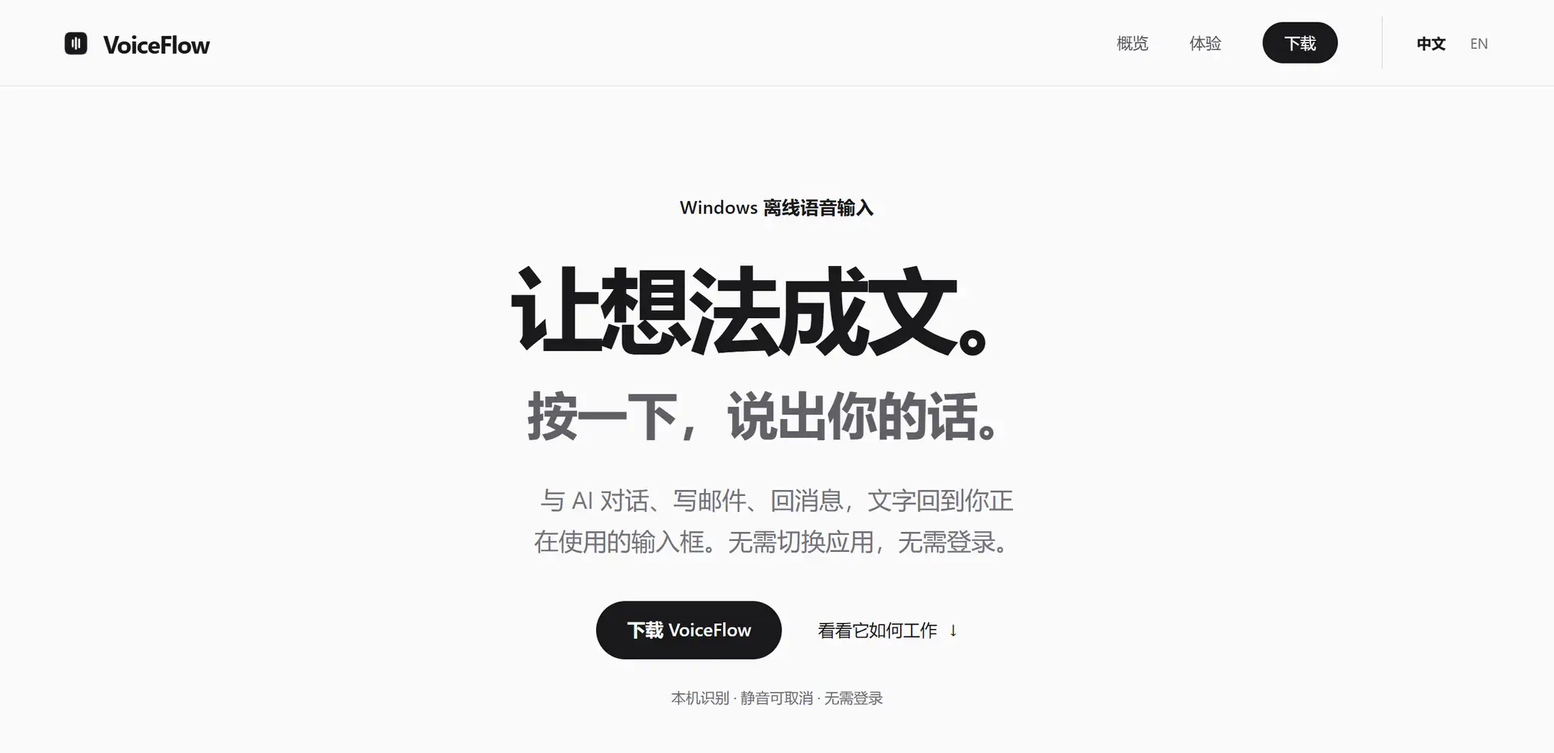
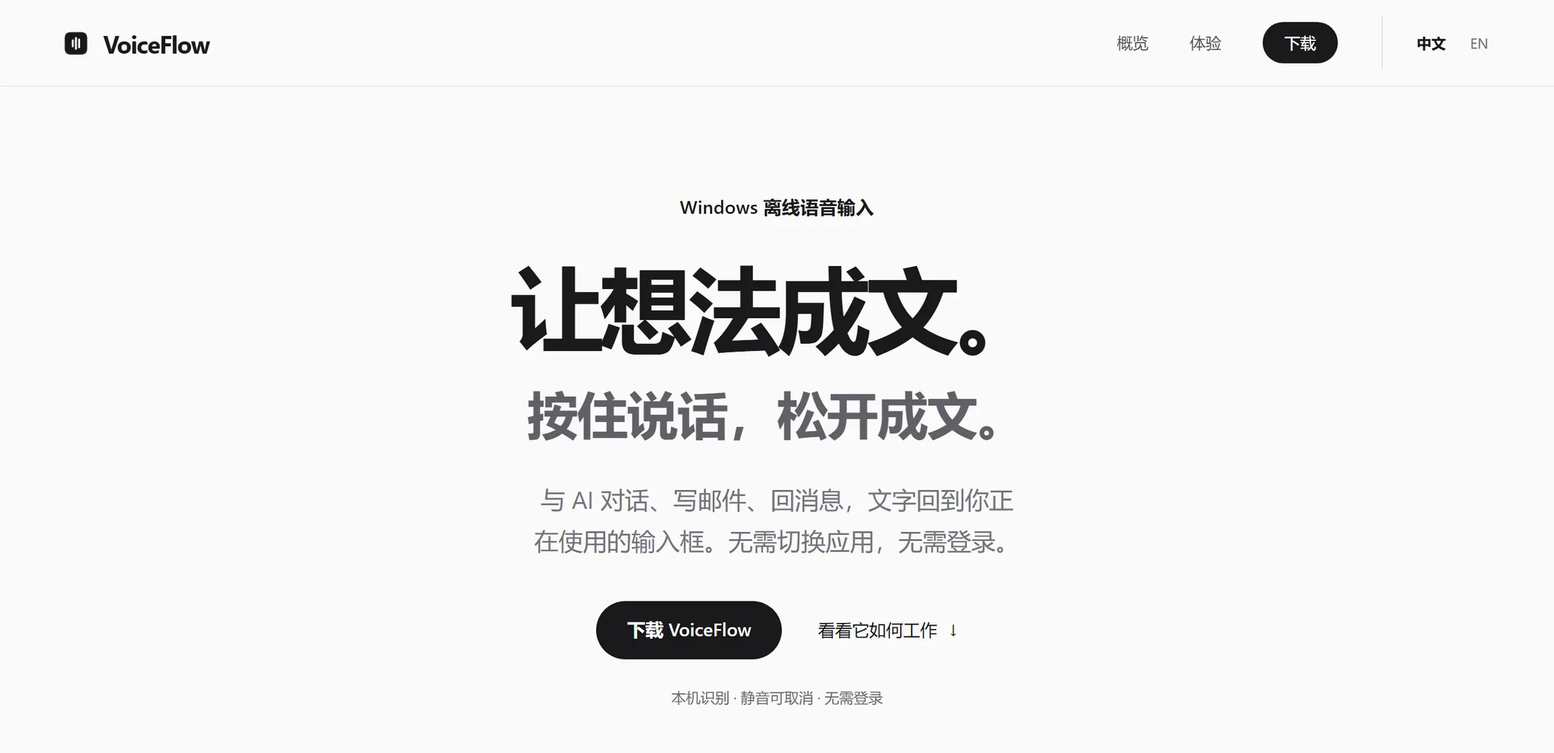
VoiceFlow v0.3.12：作品页和首页演示改为按住说话，官网图重截，926 项测试

Changed region(s): [[0.375, 0.5228, 0.625, 0.5843]]

diff --git a/work/voiceflow/index.html b/work/voiceflow/index.html
@@ -3,7 +3,7 @@
 <head>
 <meta charset="utf-8">
 <meta name="viewport" content="width=device-width, initial-scale=1, viewport-fit=cover">
-<title>VoiceFlow：按一下，说话，文字就出现在光标处 · 秦徐俊</title>
+<title>VoiceFlow：按住说话，松开，文字就出现在光标处 · 秦徐俊</title>
 <meta name="description" content="Windows 上的语音输入，全程在本机，不联网，不用登录。">
 <meta name="color-scheme" content="light dark">
 <meta name="theme-color" content="#ffffff">
@@ -18,7 +18,7 @@
 <link rel="alternate" hreflang="en" href="https://qinxujunai.github.io/en/work/voiceflow/">
 <link rel="alternate" hreflang="x-default" href="https://qinxujunai.github.io/work/voiceflow/">
 <meta property="og:type" content="website">
-<meta property="og:title" content="VoiceFlow：按一下，说话，文字就出现在光标处 · 秦徐俊">
+<meta property="og:title" content="VoiceFlow：按住说话，松开，文字就出现在光标处 · 秦徐俊">
 <meta property="og:description" content="Windows 上的语音输入，全程在本机，不联网，不用登录。">
 <meta property="og:url" content="https://qinxujunai.github.io/work/voiceflow/">
 <meta property="og:image" content="https://qinxujunai.github.io/og.png">
@@ -27,7 +27,7 @@
 <meta itemprop="image" content="https://qinxujunai.github.io/share.png">
 <meta name="twitter:card" content="summary_large_image">
 <meta name="author" content="秦徐俊">
-<script src="/assets/site.js?v=1ef3cf9a71" defer></script>
+<script src="/assets/site.js?v=f02f074eb1" defer></script>
 </head>
 <body class="case-page">
 <a class="skip" href="#main">跳到正文</a>
@@ -53,12 +53,12 @@
 <article class="case" aria-labelledby="case-title">
 <header class="tile plain case-head" id="top">
 <p class="eyebrow">VoiceFlow · 怎么做的</p>
-<h1 id="case-title"><span class="clause">按<wbr>一下</span> <span class="clause">说话</span> <span class="clause">文字<wbr>就<wbr>出现<wbr>在<wbr>光标处</span></h1>
+<h1 id="case-title"><span class="clause">按住<wbr>说话</span> <span class="clause">松开</span> <span class="clause">文字<wbr>就<wbr>出现<wbr>在<wbr>光标处</span></h1>
 <p class="sub"><span class="clause">Windows 上<wbr>的<wbr>语音<wbr>输入</span> <span class="clause">全程<wbr>在<wbr>本<wbr>机</span> <span class="clause">不<wbr>联<wbr>网</span> <span class="clause">不用<wbr>登录</span></p>
 <p class="cta"><a class="more-link" href="https://github.com/qinxujunai/VoiceFlow/releases/latest" rel="noopener"><span class="lt">下载 Windows 版</span><span class="chev out" aria-hidden="true">↗</span><span class="visually-hidden"> VoiceFlow</span></a></p>
 <div class="case-frame"><div class="frame">
 
-<span class="frame-view"><picture><source media="(max-width: 733px)" srcset="/assets/media/site-voiceflow-card-1080.webp" width="1080" height="1440"><img class="frame-img" src="/assets/media/site-voiceflow-1040.webp" srcset="/assets/media/site-voiceflow-1040.webp 1040w, /assets/media/site-voiceflow-2080.webp 2080w" sizes="1040px" width="1040" height="504" alt="VoiceFlow 的网站：让想法成文。按一下，说出你的话。" loading="lazy" decoding="async"></picture></span>
+<span class="frame-view"><picture><source media="(max-width: 733px)" srcset="/assets/media/site-voiceflow-card-1080.webp" width="1080" height="1440"><img class="frame-img" src="/assets/media/site-voiceflow-1040.webp" srcset="/assets/media/site-voiceflow-1040.webp 1040w, /assets/media/site-voiceflow-2080.webp 2080w" sizes="1040px" width="1040" height="504" alt="VoiceFlow 的网站：让想法成文。按住说话，松开成文。" loading="lazy" decoding="async"></picture></span>
 </div></div>
 </header>
 <section class="tile dark results" aria-labelledby="results-title">
@@ -66,7 +66,7 @@
 <dl class="facts">
 <div><dt>GitHub Star</dt><dd data-count="124"><!--live-->124<!--/live--></dd></div>
 <div><dt>0–10 秒<wbr>录音<wbr>至<wbr>发出<wbr>粘贴<wbr>指令，<wbr>v0.3.1 测试<wbr>第 95 百分<wbr>位</dt><dd>427 ms</dd></div>
-<div><dt>v0.3.10 自动<wbr>化<wbr>测试<wbr>（2026-10-22）</dt><dd>829 项</dd></div>
+<div><dt>v0.3.12 自动<wbr>化<wbr>测试<wbr>（2026-11-03）</dt><dd>926 项</dd></div>
 <div><dt>截至 2026-10-22 的<wbr>正式<wbr>发布</dt><dd>16 次</dd></div>
 </dl>
 <p class="footnote"><!--live-->GitHub 数据<wbr>每 6 小时<wbr>自动<wbr>更新，<wbr>最近<wbr>一次 <span class="nw">2026-11-06</span><!--/live--></p>
@@ -87,7 +87,7 @@
 <p>我<wbr>用<wbr>语音<wbr>跟 AI 聊天、<wbr>做<wbr>开发，<wbr>一<wbr>说<wbr>就是<wbr>五<wbr>六<wbr>分钟，<wbr>甚至<wbr>十<wbr>几<wbr>分钟。</p>
 <p>试过<wbr>的<wbr>工具<wbr>各有<wbr>各<wbr>的<wbr>好：<wbr>国外<wbr>有能<wbr>用 AI 校<wbr>对<wbr>的，<wbr>要<wbr>付<wbr>费；<wbr>国内<wbr>的<wbr>输入<wbr>法<wbr>识别<wbr>得<wbr>很好。<wbr>但<wbr>我<wbr>碰到<wbr>三<wbr>个<wbr>问题。<wbr>第一，<wbr>说<wbr>完<wbr>一<wbr>结束，<wbr>网<wbr>一<wbr>卡，<wbr>整段<wbr>话<wbr>就<wbr>没了。<wbr>第二，<wbr>最后<wbr>几<wbr>句<wbr>常常<wbr>识别<wbr>不出来，<wbr>可<wbr>我要<wbr>的是<wbr>完整：<wbr>说<wbr>到<wbr>最后<wbr>一个<wbr>字，<wbr>就得<wbr>出来<wbr>最后<wbr>一个<wbr>字。<wbr>第三，<wbr>光<wbr>标<wbr>不在<wbr>输入<wbr>框<wbr>里，<wbr>说<wbr>完<wbr>的话<wbr>直接<wbr>消失。</p>
 <p>所以<wbr>我<wbr>想要<wbr>一个<wbr>全<wbr>在<wbr>本<wbr>机<wbr>跑<wbr>的<wbr>工具：<wbr>终稿<wbr>识别<wbr>处理<wbr>完整录音，<wbr>并<wbr>尝试<wbr>将<wbr>结果<wbr>复制<wbr>到<wbr>剪贴板、<wbr>保存<wbr>到<wbr>本地<wbr>历史。<wbr>识别<wbr>或<wbr>保存<wbr>可能<wbr>失败，<wbr>部分<wbr>应用<wbr>需要<wbr>手<wbr>动<wbr>粘贴。</p>
-<p>正在<wbr>验证<wbr>的<wbr>开发<wbr>版<wbr>支持<wbr>按住 F2 或<wbr>右 Ctrl 说话、<wbr>松开<wbr>结束，<wbr>也<wbr>保留<wbr>轻<wbr>按<wbr>切换。<wbr>正式<wbr>下载<wbr>版<wbr>目前<wbr>仍<wbr>使用<wbr>轻<wbr>按<wbr>切换。</p>
+<p>从 v0.3.12 起，<wbr>按住 F2 或<wbr>右 Ctrl 说话、<wbr>松开<wbr>结束，<wbr>也<wbr>保留<wbr>轻<wbr>按<wbr>切换。</p>
 </section>
 <section class="case-sec" id="s2" aria-labelledby="s2-title">
 <h2 id="s2-title"><span class="clause">快<wbr>和<wbr>准，</span><span class="clause">交给<wbr>两<wbr>个<wbr>模型</span></h2>
@@ -127,12 +127,12 @@
 <h2 id="s8-title"><span class="clause">验证</span></h2>
 <p>v0.3.1 在<wbr>发布<wbr>机上<wbr>实<wbr>测<wbr>（Windows 11 · Ryzen 7 5800H）。<wbr>每一<wbr>档 20 个<wbr>样本，<wbr>数字<wbr>是 <span class="nw">95%</span> 的<wbr>情况<wbr>都能<wbr>做到<wbr>的<wbr>值：</p>
 <ul class="metrics"><li><span class="m-v">6 ms</span><span class="m-l">按下 F2 到<wbr>第一<wbr>帧<wbr>反馈</span><span class="m-g">门槛 ≤ 50 ms</span></li><li><span class="m-v">427 ms</span><span class="m-l">10 秒<wbr>内的<wbr>录音，<wbr>停止<wbr>到<wbr>发出<wbr>粘贴<wbr>指令</span><span class="m-g">门槛 ≤ 500 ms</span></li><li><span class="m-v">541 ms</span><span class="m-l">两分钟<wbr>录音，<wbr>停止<wbr>到<wbr>发出<wbr>粘贴<wbr>指令</span><span class="m-g">门槛 ≤ 2.5 s</span></li><li><span class="m-v">1,024 MB</span><span class="m-l">安装<wbr>后<wbr>私有<wbr>内存<wbr>（v0.3.1）</span><span class="m-g">早期 1,324.6 MB</span></li></ul>
-<ul class="bullets"><li>v0.3.10 于 2026 年 10 月 22 日<wbr>通过 829 项<wbr>自动<wbr>化<wbr>测试；<wbr>v0.3.3 时<wbr>是 396 项。</li><li>500 次<wbr>录音<wbr>生命<wbr>周期，<wbr>10,000 组<wbr>随机<wbr>的<wbr>开始、<wbr>停止、<wbr>取消、<wbr>退出<wbr>序列，<wbr>50,000 个<wbr>异常<wbr>文本<wbr>模糊<wbr>用例。</li><li>从 v0.3.2 起，<wbr>每<wbr>个<wbr>版本<wbr>都<wbr>附<wbr>一份<wbr>发布<wbr>与<wbr>验证<wbr>记录。</li><li>用户<wbr>提过<wbr>的 12 条<wbr>反馈，<wbr>每<wbr>条<wbr>都<wbr>写下<wbr>结论<wbr>和<wbr>理由：<wbr>采纳、<wbr>按<wbr>门槛<wbr>暂<wbr>缓，<wbr>或者<wbr>拒绝。</li></ul>
+<ul class="bullets"><li>v0.3.12 于 2026 年 11 月 3 日<wbr>通过 926 项<wbr>自动<wbr>化<wbr>测试；<wbr>v0.3.3 时<wbr>是 396 项。</li><li>500 次<wbr>录音<wbr>生命<wbr>周期，<wbr>10,000 组<wbr>随机<wbr>的<wbr>开始、<wbr>停止、<wbr>取消、<wbr>退出<wbr>序列，<wbr>50,000 个<wbr>异常<wbr>文本<wbr>模糊<wbr>用例。</li><li>从 v0.3.2 起，<wbr>每<wbr>个<wbr>版本<wbr>都<wbr>附<wbr>一份<wbr>发布<wbr>与<wbr>验证<wbr>记录。</li><li>用户<wbr>提过<wbr>的 12 条<wbr>反馈，<wbr>每<wbr>条<wbr>都<wbr>写下<wbr>结论<wbr>和<wbr>理由：<wbr>采纳、<wbr>按<wbr>门槛<wbr>暂<wbr>缓，<wbr>或者<wbr>拒绝。</li></ul>
 <p>这些<wbr>是<wbr>延迟<wbr>和<wbr>机制<wbr>的<wbr>证据，<wbr>不是<wbr>准确<wbr>率。<wbr>项目<wbr>的<wbr>规矩：<wbr>没有<wbr>足够<wbr>的<wbr>授权<wbr>真实<wbr>语<wbr>料，<wbr>就不<wbr>对外<wbr>宣称<wbr>准确<wbr>率。</p>
 </section>
 <section class="case-sec" id="s9" aria-labelledby="s9-title">
 <h2 id="s9-title"><span class="clause">历程</span></h2>
-<ol class="timeline"><li><span class="when">2026.05.23</span><span>第一次<wbr>提交</span></li><li><span class="when">2026.07.04</span><span>v0.1.0 发布</span></li><li><span class="when">2026.07.28</span><span>v0.2.0：<wbr>逐条<wbr>回应 12 条<wbr>用户<wbr>反馈</span></li><li><span class="when">2026.08.10</span><span>v0.3.0：<wbr>可<wbr>恢复<wbr>的<wbr>会话，<wbr>交付<wbr>前<wbr>先<wbr>核对<wbr>剪贴板</span></li><li><span class="when">2026.08.25</span><span>v0.3.2：<wbr>三<wbr>个<wbr>受监督<wbr>的<wbr>子进程，<wbr>每<wbr>版<wbr>附<wbr>发布<wbr>证据</span></li><li><span class="when">2026.10.11</span><span>v0.3.8：<wbr>原生<wbr>胶囊</span></li><li><span class="when">2026.10.21</span><span>v0.3.9：<wbr>设置<wbr>只留<wbr>一个<wbr>保存<wbr>入口，<wbr>词典<wbr>可以<wbr>搜索、<wbr>批量<wbr>删除、<wbr>撤销；<wbr>822 项<wbr>测试</span></li><li><span class="when">2026.10.22</span><span>v0.3.10：<wbr>设置<wbr>界面<wbr>按<wbr>系统<wbr>设置<wbr>的<wbr>样子<wbr>重做；<wbr>识别<wbr>中的<wbr>字<wbr>逐<wbr>个<wbr>淡<wbr>入，<wbr>终稿<wbr>原地<wbr>替换<wbr>草稿；<wbr>829 项<wbr>测试</span></li><li><span class="when">2026.10.28</span><span>v0.3.11：<wbr>说话<wbr>停顿<wbr>时<wbr>先<wbr>在<wbr>后台<wbr>识别，<wbr>停下<wbr>后<wbr>出<wbr>字<wbr>更<wbr>快；<wbr>长<wbr>句<wbr>接缝<wbr>不再<wbr>重复<wbr>字；<wbr>胶囊<wbr>展开<wbr>更<wbr>平滑；<wbr>862 项<wbr>测试</span></li><li><span class="when">2026.11.03</span><span>开发<wbr>版：<wbr>按住 F2 或<wbr>右 Ctrl 说话，<wbr>松开<wbr>结束；<wbr>轻<wbr>按<wbr>仍<wbr>可<wbr>切换。<wbr>长<wbr>句<wbr>标点<wbr>和<wbr>术语<wbr>还原<wbr>继续<wbr>打磨，<wbr>尚未<wbr>包含<wbr>在<wbr>正式<wbr>下载<wbr>版<wbr>中</span></li></ol>
+<ol class="timeline"><li><span class="when">2026.05.23</span><span>第一次<wbr>提交</span></li><li><span class="when">2026.07.04</span><span>v0.1.0 发布</span></li><li><span class="when">2026.07.28</span><span>v0.2.0：<wbr>逐条<wbr>回应 12 条<wbr>用户<wbr>反馈</span></li><li><span class="when">2026.08.10</span><span>v0.3.0：<wbr>可<wbr>恢复<wbr>的<wbr>会话，<wbr>交付<wbr>前<wbr>先<wbr>核对<wbr>剪贴板</span></li><li><span class="when">2026.08.25</span><span>v0.3.2：<wbr>三<wbr>个<wbr>受监督<wbr>的<wbr>子进程，<wbr>每<wbr>版<wbr>附<wbr>发布<wbr>证据</span></li><li><span class="when">2026.10.11</span><span>v0.3.8：<wbr>原生<wbr>胶囊</span></li><li><span class="when">2026.10.21</span><span>v0.3.9：<wbr>设置<wbr>只留<wbr>一个<wbr>保存<wbr>入口，<wbr>词典<wbr>可以<wbr>搜索、<wbr>批量<wbr>删除、<wbr>撤销；<wbr>822 项<wbr>测试</span></li><li><span class="when">2026.10.22</span><span>v0.3.10：<wbr>设置<wbr>界面<wbr>按<wbr>系统<wbr>设置<wbr>的<wbr>样子<wbr>重做；<wbr>识别<wbr>中的<wbr>字<wbr>逐<wbr>个<wbr>淡<wbr>入，<wbr>终稿<wbr>原地<wbr>替换<wbr>草稿；<wbr>829 项<wbr>测试</span></li><li><span class="when">2026.10.28</span><span>v0.3.11：<wbr>说话<wbr>停顿<wbr>时<wbr>先<wbr>在<wbr>后台<wbr>识别，<wbr>停下<wbr>后<wbr>出<wbr>字<wbr>更<wbr>快；<wbr>长<wbr>句<wbr>接缝<wbr>不再<wbr>重复<wbr>字；<wbr>胶囊<wbr>展开<wbr>更<wbr>平滑；<wbr>862 项<wbr>测试</span></li><li><span class="when">2026.11.03</span><span>v0.3.12：<wbr>按住 F2 或<wbr>右 Ctrl 说话，<wbr>松开<wbr>结束，<wbr>轻<wbr>按<wbr>仍<wbr>可<wbr>切换；<wbr>粘贴<wbr>发出<wbr>后<wbr>胶囊<wbr>直接<wbr>收起；<wbr>长<wbr>句<wbr>分段<wbr>处<wbr>不再<wbr>多<wbr>出<wbr>句号，<wbr>词<wbr>库<wbr>术语<wbr>能<wbr>还原<wbr>拆开<wbr>的<wbr>写法；<wbr>926 项<wbr>测试</span></li></ol>
 </section>
 </details>
 <section class="case-sec" id="s10" aria-labelledby="s10-title">

diff --git a/en/work/voiceflow/index.html b/en/work/voiceflow/index.html
@@ -3,7 +3,7 @@
 <head>
 <meta charset="utf-8">
 <meta name="viewport" content="width=device-width, initial-scale=1, viewport-fit=cover">
-<title>VoiceFlow: Press a key, talk, and the words appear at your cursor · Qin Xujun</title>
+<title>VoiceFlow: Hold a key, talk, let go, and the words appear at your cursor · Qin Xujun</title>
 <meta name="description" content="Voice typing for Windows that runs entirely on the device: no internet, no account.">
 <meta name="color-scheme" content="light dark">
 <meta name="theme-color" content="#ffffff">
@@ -18,7 +18,7 @@
 <link rel="alternate" hreflang="en" href="https://qinxujunai.github.io/en/work/voiceflow/">
 <link rel="alternate" hreflang="x-default" href="https://qinxujunai.github.io/work/voiceflow/">
 <meta property="og:type" content="website">
-<meta property="og:title" content="VoiceFlow: Press a key, talk, and the words appear at your cursor · Qin Xujun">
+<meta property="og:title" content="VoiceFlow: Hold a key, talk, let go, and the words appear at your cursor · Qin Xujun">
 <meta property="og:description" content="Voice typing for Windows that runs entirely on the device: no internet, no account.">
 <meta property="og:url" content="https://qinxujunai.github.io/en/work/voiceflow/">
 <meta property="og:image" content="https://qinxujunai.github.io/og.png">
@@ -27,7 +27,7 @@
 <meta itemprop="image" content="https://qinxujunai.github.io/share.png">
 <meta name="twitter:card" content="summary_large_image">
 <meta name="author" content="Qin Xujun">
-<script src="/assets/site.js?v=1ef3cf9a71" defer></script>
+<script src="/assets/site.js?v=f02f074eb1" defer></script>
 </head>
 <body class="case-page">
 <a class="skip" href="#main">Skip to content</a>
@@ -53,12 +53,12 @@
 <article class="case" aria-labelledby="case-title">
 <header class="tile plain case-head" id="top">
 <p class="eyebrow">VoiceFlow · How it was made</p>
-<h1 id="case-title">Press a key, talk, and the words appear at your cursor</h1>
+<h1 id="case-title">Hold a key, talk, let go, and the words appear at your cursor</h1>
 <p class="sub">Voice typing for Windows that runs entirely on the device: no internet, no account</p>
 <p class="cta"><a class="more-link" href="https://github.com/qinxujunai/VoiceFlow/releases/latest" rel="noopener"><span class="lt">Download for Windows</span><span class="chev out" aria-hidden="true">↗</span><span class="visually-hidden"> VoiceFlow</span></a></p>
 <div class="case-frame"><div class="frame">
 
-<span class="frame-view"><picture><source media="(max-width: 733px)" srcset="/assets/media/site-voiceflow-card-1080.webp" width="1080" height="1440"><img class="frame-img" src="/assets/media/site-voiceflow-1040.webp" srcset="/assets/media/site-voiceflow-1040.webp 1040w, /assets/media/site-voiceflow-2080.webp 2080w" sizes="1040px" width="1040" height="504" alt="The VoiceFlow website (in Chinese): let ideas take shape. Press once, say what you mean." loading="lazy" decoding="async"></picture></span>
+<span class="frame-view"><picture><source media="(max-width: 733px)" srcset="/assets/media/site-voiceflow-card-1080.webp" width="1080" height="1440"><img class="frame-img" src="/assets/media/site-voiceflow-1040.webp" srcset="/assets/media/site-voiceflow-1040.webp 1040w, /assets/media/site-voiceflow-2080.webp 2080w" sizes="1040px" width="1040" height="504" alt="The VoiceFlow website (in Chinese): let ideas take shape. Hold to speak, let go to write." loading="lazy" decoding="async"></picture></span>
 </div></div>
 </header>
 <section class="tile dark results" aria-labelledby="results-title">
@@ -66,7 +66,7 @@
 <dl class="facts">
 <div><dt>GitHub stars</dt><dd data-count="124"><!--live-->124<!--/live--></dd></div>
 <div><dt>Stop to paste dispatch, 0–10 s clips; v0.3.1, 95th percentile</dt><dd>427 ms</dd></div>
-<div><dt>Tests on v0.3.10 (22 Oct 2026)</dt><dd>829</dd></div>
+<div><dt>Tests on v0.3.12 (3 Nov 2026)</dt><dd>926</dd></div>
 <div><dt>Releases as of 22 Oct 2026</dt><dd>16</dd></div>
 </dl>
 <p class="footnote"><!--live-->GitHub numbers refresh every six hours, last on <span class="nw">2026-11-06</span><!--/live--></p>
@@ -87,7 +87,7 @@
 <p>I talk to AI by voice while I chat and build, often for five or six minutes at a time, sometimes more than ten.</p>
 <p>The tools I tried each had strengths: one from abroad could clean up text with AI, for a fee; the voice input on Chinese phones and PCs recognised speech well. But I kept hitting three problems. First, when I stopped, one network hiccup and the whole passage was gone. Second, the last few sentences often never appeared, when what I needed was all of it: the last word I say should be the last word on screen. Third, if the cursor wasn’t in a text box, everything I said simply vanished.</p>
 <p>So I wanted a tool that runs on my own computer: final recognition processes the full recording and tries to copy the result to the clipboard and save it in local history. Recognition or saving can fail, and some apps need a manual paste.</p>
-<p>The development build is testing hold-to-speak with F2 or right Ctrl, alongside tap-to-toggle. The current public download uses tap-to-toggle.</p>
+<p>Since v0.3.12, hold F2 or right Ctrl to speak and release to stop; tap-to-toggle still works.</p>
 </section>
 <section class="case-sec" id="s2" aria-labelledby="s2-title">
 <h2 id="s2-title">Speed and accuracy, split between two models</h2>
@@ -127,12 +127,12 @@
 <h2 id="s8-title">Evidence</h2>
 <p>Measured for v0.3.1 on the release machine (Windows 11, Ryzen 7 5800H). 20 samples per bucket; each number holds in 95% of cases:</p>
 <ul class="metrics"><li><span class="m-v">6 ms</span><span class="m-l">F2 to first feedback</span><span class="m-g">Gate ≤ 50 ms</span></li><li><span class="m-v">427 ms</span><span class="m-l">Clips under 10 s, stop to paste dispatch</span><span class="m-g">Gate ≤ 500 ms</span></li><li><span class="m-v">541 ms</span><span class="m-l">Two-minute clips, stop to paste dispatch</span><span class="m-g">Gate ≤ 2.5 s</span></li><li><span class="m-v">1,024 MB</span><span class="m-l">Private memory after install (v0.3.1)</span><span class="m-g">Earlier 1,324.6 MB</span></li></ul>
-<ul class="bullets"><li>829 automated tests passed for v0.3.10 on 22 Oct 2026, up from 396 at v0.3.3.</li><li>500 recording lifecycles, 10,000 random start, stop, cancel and exit sequences, 50,000 malformed-text fuzz cases.</li><li>Since v0.3.2, every release ships with a release and verification record.</li><li>Twelve pieces of user feedback, each with a written decision and reason: adopted, deferred behind a gate, or declined.</li></ul>
+<ul class="bullets"><li>926 automated tests passed for v0.3.12 on 3 Nov 2026, up from 396 at v0.3.3.</li><li>500 recording lifecycles, 10,000 random start, stop, cancel and exit sequences, 50,000 malformed-text fuzz cases.</li><li>Since v0.3.2, every release ships with a release and verification record.</li><li>Twelve pieces of user feedback, each with a written decision and reason: adopted, deferred behind a gate, or declined.</li></ul>
 <p>This is evidence about latency and mechanics, not accuracy. The project’s rule: no accuracy claims without enough authorized real speech.</p>
 </section>
 <section class="case-sec" id="s9" aria-labelledby="s9-title">
 <h2 id="s9-title">Timeline</h2>
-<ol class="timeline"><li><span class="when">2026.05.23</span><span>First commit</span></li><li><span class="when">2026.07.04</span><span>v0.1.0 released</span></li><li><span class="when">2026.07.28</span><span>v0.2.0: a written answer to all 12 pieces of user feedback</span></li><li><span class="when">2026.08.10</span><span>v0.3.0: recoverable sessions; the clipboard is verified before delivery</span></li><li><span class="when">2026.08.25</span><span>v0.3.2: three supervised workers; evidence with every release</span></li><li><span class="when">2026.10.11</span><span>v0.3.8: native capsule</span></li><li><span class="when">2026.10.21</span><span>v0.3.9: one Save button in settings; a dictionary you can search, bulk-delete and undo; 822 tests</span></li><li><span class="when">2026.10.22</span><span>v0.3.10: settings redesigned after the system Settings app; words fade in as they’re recognised, and the final text replaces the draft in place; 829 tests</span></li><li><span class="when">2026.10.28</span><span>v0.3.11: recognition starts during a pause, so text arrives sooner after stopping; no repeated words at long-recording seams; a smoother capsule; 862 tests</span></li><li><span class="when">2026.11.03</span><span>Development build: hold F2 or right Ctrl to speak and release to stop; tap to toggle still works. Long-form punctuation and term restoration are being refined. Not yet in the public release</span></li></ol>
+<ol class="timeline"><li><span class="when">2026.05.23</span><span>First commit</span></li><li><span class="when">2026.07.04</span><span>v0.1.0 released</span></li><li><span class="when">2026.07.28</span><span>v0.2.0: a written answer to all 12 pieces of user feedback</span></li><li><span class="when">2026.08.10</span><span>v0.3.0: recoverable sessions; the clipboard is verified before delivery</span></li><li><span class="when">2026.08.25</span><span>v0.3.2: three supervised workers; evidence with every release</span></li><li><span class="when">2026.10.11</span><span>v0.3.8: native capsule</span></li><li><span class="when">2026.10.21</span><span>v0.3.9: one Save button in settings; a dictionary you can search, bulk-delete and undo; 822 tests</span></li><li><span class="when">2026.10.22</span><span>v0.3.10: settings redesigned after the system Settings app; words fade in as they’re recognised, and the final text replaces the draft in place; 829 tests</span></li><li><span class="when">2026.10.28</span><span>v0.3.11: recognition starts during a pause, so text arrives sooner after stopping; no repeated words at long-recording seams; a smoother capsule; 862 tests</span></li><li><span class="when">2026.11.03</span><span>v0.3.12: hold F2 or right Ctrl to speak and release to stop, and tap to toggle still works; the capsule fades once the paste is sent; no stray full stops where long dictation is joined, and split dictionary terms are restored; 926 tests</span></li></ol>
 </section>
 </details>
 <section class="case-sec" id="s10" aria-labelledby="s10-title">

diff --git a/index.html b/index.html
@@ -27,7 +27,7 @@
 <meta itemprop="image" content="https://qinxujunai.github.io/share.png">
 <meta name="twitter:card" content="summary_large_image">
 <meta name="author" content="秦徐俊">
-<script src="/assets/site.js?v=1ef3cf9a71" defer></script>
+<script src="/assets/site.js?v=f02f074eb1" defer></script>
 </head>
 <body class="home">
 <a class="skip" href="#main">跳到正文</a>
@@ -73,13 +73,13 @@
 <div class="show-stage">
 <div class="show-head">
 <h3 id="voiceflow-title" class="show-name">VoiceFlow</h3>
-<p class="show-line"><span class="clause">按 F2 说话</span> <span class="clause">字<wbr>直接<wbr>打<wbr>在<wbr>光标处</span></p>
+<p class="show-line"><span class="clause">按住 F2 说话</span> <span class="clause">字<wbr>直接<wbr>打<wbr>在<wbr>光标处</span></p>
 </div>
 <a class="demo-link" href="/work/voiceflow/"><span class="visually-hidden">怎么做的 VoiceFlow</span><div class="demo case-demo" aria-hidden="true">
 <kbd>F2</kbd>
 <div class="capsule"><span class="bars"><i></i><i></i><i></i></span><span class="typed" data-lines="[&quot;请比较这两份方案的成本与风险，再给出你的建议。&quot;,&quot;明早十点，把方案同步给团队。&quot;,&quot;这周的方案已经整理好了，明天一起看看。&quot;]">请比较这两份方案的成本与风险，再给出你的建议。</span><span class="caret"></span></div>
 <span class="demo-paste" aria-hidden="true"></span>
-<p class="hint">按一下开始，再按一下完成</p>
+<p class="hint">按住说话，松开就输入</p>
 </div></a>
 <blockquote class="story"><p class="story-label">为什么做</p><p>我<wbr>常<wbr>对<wbr>着 AI 一<wbr>说<wbr>就是<wbr>十<wbr>几<wbr>分钟。<wbr>用<wbr>过的<wbr>输入<wbr>法，<wbr>网<wbr>一<wbr>卡，<wbr>整段<wbr>话<wbr>就<wbr>没了；<wbr>最后<wbr>几<wbr>句<wbr>常常<wbr>出<wbr>不<wbr>来；<wbr>光<wbr>标<wbr>不在<wbr>输入<wbr>框，<wbr>说<wbr>完<wbr>的话<wbr>直接<wbr>消失。<wbr>所以<wbr>我<wbr>做了<wbr>一个<wbr>全<wbr>在<wbr>本<wbr>机<wbr>跑<wbr>的<wbr>工具，<wbr>终稿<wbr>识别<wbr>会<wbr>覆盖<wbr>完整录音。</p></blockquote>
 <div class="show-foot">

diff --git a/en/index.html b/en/index.html
@@ -27,7 +27,7 @@
 <meta itemprop="image" content="https://qinxujunai.github.io/share.png">
 <meta name="twitter:card" content="summary_large_image">
 <meta name="author" content="Qin Xujun">
-<script src="/assets/site.js?v=1ef3cf9a71" defer></script>
+<script src="/assets/site.js?v=f02f074eb1" defer></script>
 </head>
 <body class="home">
 <a class="skip" href="#main">Skip to content</a>
@@ -73,13 +73,13 @@
 <div class="show-stage">
 <div class="show-head">
 <h3 id="voiceflow-title" class="show-name">VoiceFlow</h3>
-<p class="show-line">Press F2, speak, and the words land at your cursor</p>
+<p class="show-line">Hold F2, speak, and the words land at your cursor</p>
 </div>
 <a class="demo-link" href="/en/work/voiceflow/"><span class="visually-hidden">How it was made VoiceFlow</span><div class="demo case-demo" aria-hidden="true">
 <kbd>F2</kbd>
 <div class="capsule"><span class="bars"><i></i><i></i><i></i></span><span class="typed" data-lines="[&quot;Compare the costs and risks of these two proposals, then recommend an approach.&quot;,&quot;Share the plan with the team at ten.&quot;,&quot;The proposal is ready. Let’s go over it tomorrow.&quot;]">Compare the costs and risks of these two proposals, then recommend an approach.</span><span class="caret"></span></div>
 <span class="demo-paste" aria-hidden="true"></span>
-<p class="hint">Press to start, press again to finish</p>
+<p class="hint">Hold to speak, release to insert</p>
 </div></a>
 <blockquote class="story"><p class="story-label">Why I built it</p><p>I often talk to an AI for ten minutes or more at a time. With the voice input I used, one network hiccup and the whole passage was gone; the last few sentences often never appeared; if the cursor wasn’t in a text box, everything I said simply vanished. So I built a tool that runs on my own computer and recognizes the complete recording for the final transcript.</p></blockquote>
 <div class="show-foot">

diff --git a/assets/site.js b/assets/site.js
@@ -120,8 +120,8 @@
     var measure = document.createElement('canvas').getContext('2d');
     var line = 0, pos = 0, timer = null, running = false;
     var startCapsule = function () { demoBox.classList.add('is-starting'); pos = 0; if (pasted) pasted.textContent = ''; capsule.classList.remove('is-delivered'); typed.textContent = ''; capsule.style.width = '86px'; timer = setTimeout(step, 550); };
+    // Hold to talk (v0.3.12): F2 goes down at the start, stays down while the capsule writes, and comes up at the end.
     var step = function () {
-      demoBox.classList.remove('is-starting');
       var chars = Array.from(lines[line]);
       if (pos <= chars.length) {
         var shown = chars.slice(0, pos);
@@ -133,8 +133,8 @@
         pos++;
         timer = setTimeout(step, Math.max(17, 48 - Math.min(31, (chars.length - pos) * 2)));
       } else {
-        capsule.classList.remove('listening'); demoBox.classList.add('is-starting');
-        timer = setTimeout(function () { demoBox.classList.remove('is-starting'); capsule.classList.add('is-delivered'); if (pasted) pasted.textContent = lines[line]; timer = setTimeout(function () { line = (line + 1) % lines.length; startCapsule(); }, 1800); }, 650);
+        capsule.classList.remove('listening'); demoBox.classList.remove('is-starting');
+        timer = setTimeout(function () { capsule.classList.add('is-delivered'); if (pasted) pasted.textContent = lines[line]; timer = setTimeout(function () { line = (line + 1) % lines.length; startCapsule(); }, 1800); }, 650);
       }
     };
     new IntersectionObserver(function (entries) {

diff --git a/work/ai-signal/index.html b/work/ai-signal/index.html
@@ -27,7 +27,7 @@
 <meta itemprop="image" content="https://qinxujunai.github.io/share.png">
 <meta name="twitter:card" content="summary_large_image">
 <meta name="author" content="秦徐俊">
-<script src="/assets/site.js?v=1ef3cf9a71" defer></script>
+<script src="/assets/site.js?v=f02f074eb1" defer></script>
 </head>
 <body class="case-page">
 <a class="skip" href="#main">跳到正文</a>
@@ -150,7 +150,7 @@
 <div class="card-grid two">
 <article class="card-tile product-card reveal">
 <p class="eyebrow">VoiceFlow</p>
-<h3><a href="/work/voiceflow/"><span class="clause">按 F2 说话</span> <span class="clause">字<wbr>直接<wbr>打<wbr>在<wbr>光标处</span></a></h3>
+<h3><a href="/work/voiceflow/"><span class="clause">按住 F2 说话</span> <span class="clause">字<wbr>直接<wbr>打<wbr>在<wbr>光标处</span></a></h3>
 <p class="card-line"><span class="clause">Windows 语音<wbr>输入</span> · <span class="clause">装<wbr>好<wbr>后<wbr>断<wbr>网<wbr>也能<wbr>用</span> · <span class="clause">免费<wbr>开<wbr>源</span></p>
 <p class="card-more" aria-hidden="true">怎么做的<span class="chev" aria-hidden="true">›</span></p>
 </article>

diff --git a/work/wanxiang/index.html b/work/wanxiang/index.html
@@ -27,7 +27,7 @@
 <meta itemprop="image" content="https://qinxujunai.github.io/share.png">
 <meta name="twitter:card" content="summary_large_image">
 <meta name="author" content="秦徐俊">
-<script src="/assets/site.js?v=1ef3cf9a71" defer></script>
+<script src="/assets/site.js?v=f02f074eb1" defer></script>
 </head>
 <body class="case-page">
 <a class="skip" href="#main">跳到正文</a>
@@ -151,7 +151,7 @@
 <div class="card-grid two">
 <article class="card-tile product-card reveal">
 <p class="eyebrow">VoiceFlow</p>
-<h3><a href="/work/voiceflow/"><span class="clause">按 F2 说话</span> <span class="clause">字<wbr>直接<wbr>打<wbr>在<wbr>光标处</span></a></h3>
+<h3><a href="/work/voiceflow/"><span class="clause">按住 F2 说话</span> <span class="clause">字<wbr>直接<wbr>打<wbr>在<wbr>光标处</span></a></h3>
 <p class="card-line"><span class="clause">Windows 语音<wbr>输入</span> · <span class="clause">装<wbr>好<wbr>后<wbr>断<wbr>网<wbr>也能<wbr>用</span> · <span class="clause">免费<wbr>开<wbr>源</span></p>
 <p class="card-more" aria-hidden="true">怎么做的<span class="chev" aria-hidden="true">›</span></p>
 </article>

diff --git a/en/work/ai-signal/index.html b/en/work/ai-signal/index.html
@@ -27,7 +27,7 @@
 <meta itemprop="image" content="https://qinxujunai.github.io/share.png">
 <meta name="twitter:card" content="summary_large_image">
 <meta name="author" content="Qin Xujun">
-<script src="/assets/site.js?v=1ef3cf9a71" defer></script>
+<script src="/assets/site.js?v=f02f074eb1" defer></script>
 </head>
 <body class="case-page">
 <a class="skip" href="#main">Skip to content</a>
@@ -150,7 +150,7 @@
 <div class="card-grid two">
 <article class="card-tile product-card reveal">
 <p class="eyebrow">VoiceFlow</p>
-<h3><a href="/en/work/voiceflow/">Press F2, speak, and the words land at your cursor</a></h3>
+<h3><a href="/en/work/voiceflow/">Hold F2, speak, and the words land at your cursor</a></h3>
 <p class="card-line"><span class="clause">Voice typing for Windows</span> · <span class="clause">Offline after install</span> · <span class="clause">Free, open source</span></p>
 <p class="card-more" aria-hidden="true">How it was made<span class="chev" aria-hidden="true">›</span></p>
 </article>

diff --git a/en/work/wanxiang/index.html b/en/work/wanxiang/index.html
@@ -27,7 +27,7 @@
 <meta itemprop="image" content="https://qinxujunai.github.io/share.png">
 <meta name="twitter:card" content="summary_large_image">
 <meta name="author" content="Qin Xujun">
-<script src="/assets/site.js?v=1ef3cf9a71" defer></script>
+<script src="/assets/site.js?v=f02f074eb1" defer></script>
 </head>
 <body class="case-page">
 <a class="skip" href="#main">Skip to content</a>
@@ -151,7 +151,7 @@
 <div class="card-grid two">
 <article class="card-tile product-card reveal">
 <p class="eyebrow">VoiceFlow</p>
-<h3><a href="/en/work/voiceflow/">Press F2, speak, and the words land at your cursor</a></h3>
+<h3><a href="/en/work/voiceflow/">Hold F2, speak, and the words land at your cursor</a></h3>
 <p class="card-line"><span class="clause">Voice typing for Windows</span> · <span class="clause">Offline after install</span> · <span class="clause">Free, open source</span></p>
 <p class="card-more" aria-hidden="true">How it was made<span class="chev" aria-hidden="true">›</span></p>
 </article>

diff --git a/404.html b/404.html
@@ -24,7 +24,7 @@
 <meta itemprop="image" content="https://qinxujunai.github.io/share.png">
 <meta name="twitter:card" content="summary_large_image">
 <meta name="author" content="秦徐俊">
-<script src="/assets/site.js?v=1ef3cf9a71" defer></script>
+<script src="/assets/site.js?v=f02f074eb1" defer></script>
 </head>
 <body>
 <main class="tile hero lost" id="main">

diff --git a/AGENTS.md b/AGENTS.md
@@ -36,8 +36,8 @@
      - 视频：他导出的 4K 网页版（约 7Mbps），手机和电脑都播这一个。`<video src>` 是当前方案的播放地址，`data-sources` 里接着是另一套；地址来自 `src/film-hosts.json`（`scripts/film-hosts.mjs` 从影片网站发布的 `hosts.json` 抄来，不要手改；`content.mjs` 的 `FILM`）。当前地址出错，或点播放 10 秒连文件头都没拿到，`site.js` 才换另一套，从同一秒接着放；慢、卡住都不换（2026-10-25 他的规则，`scripts/test-player.cjs` 逐种情况验证）。**不要用 `<source>` 子元素**（v27.18：微信安卓内核只读 `src`，用 `<source>` 时微信里放不出来）。`preload="none"`，不点不下载（`qa.mjs` 会拦任何 mp4 请求）。
      - **不要再做 B 站线路**（v26.8 撤下）：v26.6–26.7 试过用他的 B 站投稿做「国内线路」（沙箱嵌入 + 「原画｜国内」开关），他在手机上点播放「直接卡死了」，并说不要新加按钮、不要切换、不要跳转 B 站，「不可以就保留原方案」。在本站播放器里直接放 B 站视频做不到（地址签名、过期、校验 Referer），所以保持一个播放器、一个文件。
      - 海报在首页 `<head>` 里 preload，手机用 960 宽、16KB 的版本：它是手机首屏最大的元素，决定弱网 LCP（实测 2.3 秒）。不要给它加入场动画或 `loading="lazy"`。
-  3. 作品：先是小字「作品」、标题「三个作品，都从我自己的问题开始」和一句「都在线上，打开就能用」（v27.3：原标题「先解决自己的问题」读起来像在教读者）（v23：标题说一件三个故事都能证明的事；v21 的「靠得住」主张和每个作品下的「靠得住，是因为」撤下——他说文案描述多、没做到），再是三个作品（VoiceFlow、AI Signal、万象成文；背景深、浅灰、白交替）。只有两级文字在图上方：名字（一级）、一句承诺式的 `line`（二级：「按 F2 说话，字直接打在光标处」「每天十点，值得看的 AI 消息，一页读完」「贴一个链接，拿回全部文字」）。图下方：先是「为什么做」（`story`，他的第一人称，先痛点后做法），再是一行大白话事实 `note` 和两个链接（三级）：先「怎么做的 ›」（作品页），再「打开 VoiceFlow ↗」这样以产品名命名的按钮。
-     - **首页的图是产品在工作的样子**（`cs.shot`，v21）：VoiceFlow 是胶囊打字演示（`shot: 'capsule'`），AI Signal 是当天那期的**真文字卡片**（`shot: 'signal'`，`signalCard()` 读 `src/signal.json`；v24：截图会过期，卡片每天自动换成最新一期），万象成文是**一次真实处理的完整结果页**（`site-prod-wanxiang`，手机上也用整张，不裁卡片：v26.11 他说要「让人一眼看得到效果」；之前试过裁一张卡（像残片）、官网首屏（看不到效果）、官网长图（一个项目两大段，图里「播放演示」点不动））。作品页顶部仍是官网首屏（`cs.image`）。
+  3. 作品：先是小字「作品」、标题「三个作品，都从我自己的问题开始」和一句「都在线上，打开就能用」（v27.3：原标题「先解决自己的问题」读起来像在教读者）（v23：标题说一件三个故事都能证明的事；v21 的「靠得住」主张和每个作品下的「靠得住，是因为」撤下——他说文案描述多、没做到），再是三个作品（VoiceFlow、AI Signal、万象成文；背景深、浅灰、白交替）。只有两级文字在图上方：名字（一级）、一句承诺式的 `line`（二级：「按住 F2 说话，字直接打在光标处」（2026-11-03 v0.3.12 起是按住说话）「每天十点，值得看的 AI 消息，一页读完」「贴一个链接，拿回全部文字」）。图下方：先是「为什么做」（`story`，他的第一人称，先痛点后做法），再是一行大白话事实 `note` 和两个链接（三级）：先「怎么做的 ›」（作品页），再「打开 VoiceFlow ↗」这样以产品名命名的按钮。
+     - **首页的图是产品在工作的样子**（`cs.shot`，v21）：VoiceFlow 是胶囊打字演示（`shot: 'capsule'`；2026-11-07 起 F2 键按下后一直亮到说完才松开，对应 v0.3.12 的按住说话），AI Signal 是当天那期的**真文字卡片**（`shot: 'signal'`，`signalCard()` 读 `src/signal.json`；v24：截图会过期，卡片每天自动换成最新一期），万象成文是**一次真实处理的完整结果页**（`site-prod-wanxiang`，手机上也用整张，不裁卡片：v26.11 他说要「让人一眼看得到效果」；之前试过裁一张卡（像残片）、官网首屏（看不到效果）、官网长图（一个项目两大段，图里「播放演示」点不动））。作品页顶部仍是官网首屏（`cs.image`）。
      - 作品页的图是作品官网首屏的原样截图，**不画浏览器外框和地址栏**（v18：框里写着地址，读的人会以为「网站里又套了一个网站」）。点图进作品页；作品页、官网的入口都在文字链接上。**图是静止的官网首屏**：从官网顶部（含它自己的导航）裁到它第一张图或下一节之前，按官网自己的边界裁，不用固定比例（v19：16:10 把万象成文的首屏和演示切在一张卡里）。桌面用官网桌面版（`site-*`），手机用官网自己的手机版（`site-*-card`，390 宽截取）。不吸顶、不在图里滚动。**不用手机外框**。
      - VoiceFlow 的 GitHub 数字只在它的作品页。
      - 中文标题、副句只在标点后换行（`lines()` 去逗号分两行，`clauses()` 按逗号、冒号分段）；「A · B · C」这类小字不在一项中间断（`dots()`）。
@@ -55,7 +55,7 @@
   1. 顶部是 apple.com 式的产品栏（`caseNav()`，代替全站导航和面包屑）：「‹ 作品」回到首页这个作品的位置、作品名（点一下回到顶部）、宽屏上的主要章节（`sections` 里带 `nav` 的那几节）、语言、主题，以及蓝色的「打开 XX ↗」按钮（XX 是产品名；窄手机上栏里不再重复产品名）——读到哪里都能一步去用它。
   1.5 开头一行小字「XX · 怎么做的」，说清这页讲的是怎么做出来的，不是产品本身（参照 Apple 设计奖、App Store 故事页）。
   2. 结论式标题。
-  3. 官网首屏截图（静止，不是链接，不画浏览器外框）。VoiceFlow 下面还有胶囊打字演示。
+  3. 官网首屏截图（静止，不是链接，不画浏览器外框）。（2026-11-03 起 VoiceFlow 作品页不再放胶囊演示：首页已有一处，一个作品只留一个演示。）
   4. 黑色关键结果条。
   5. 左侧项目信息（桌面端吸顶）。
   6. 分节正文（章节配图 `shot` 在手机上也用整张，不再裁成一张卡片——v26.9 他说裁出来的卡片像「残留」），按 Apple 产品页的叙事：先是故事（第一节标题是结论），再是三个结论式章节（每节一句结论做标题，可带数字 `metrics` 和配图 `shot`），然后「技术细节」（`tech: true` 的边界、架构、取舍、验证、历程收进一个可展开的 `<details>`），最后「还差什么」始终展开。区块类型有：`p`、`metrics`、`flow`（架构或流程）、`scope`（做 / 不做）、`table`（决定 / 原因 / 放弃的方案）、`list`、`timeline`、`after`。
@@ -122,7 +122,7 @@
 
 ## 完成的定义
 
-2026-11-03（Codex）：VoiceFlow 作品页补充开发版按住说话的进展，明确尚未进入正式下载版；作品页移除与首页重复的胶囊演示，保留官网截图和首页演示。公开内容与私有履历仍分开生成。验证和提交记录以本次 Git 历史为准。
+2026-11-03（Codex）：VoiceFlow 作品页补充开发版按住说话的进展，明确尚未进入正式下载版；作品页移除与首页重复的胶囊演示，保留官网截图和首页演示。公开内容与私有履历仍分开生成。验证和提交记录以本次 Git 历史为准。同日 v0.3.12 正式发布，作品页改成正式功能的说法，见 CLAUDE.md 决策记录 2026-11-03「VoiceFlow v0.3.12」。
 ```bash
 npm install            # 仅开发工具
 npm run build

diff --git a/CLAUDE.md b/CLAUDE.md
@@ -11,7 +11,7 @@
 - **主张**：他自己写过的「先立边界，再把概率压成确定性。」三个作品都是这个动作。但它是方法论，不放首屏标题（他否了），只在作品页和分享区体现。
 - **AI 视觉作品**（v5–v21 的画廊，v22 起被影片取代，v24 删掉了图片和样式）：取自简历作品链接里的图（人台→AI 模特、服装上身图、猫头形象包装延展、AI 人像、AI 场景）。不放其中的香奈儿（品牌 logo）、蜘蛛侠、小丑（版权角色）。以后要放回，原图不在仓库，要他重新提供。
 - **作品**：
-  - VoiceFlow：github.com/qinxujunai/VoiceFlow；2026-11-02 核对的最新正式版为 v0.3.11，版本会变化，请查看仓库 Release。
+  - VoiceFlow：github.com/qinxujunai/VoiceFlow；2026-11-03 核对的最新正式版为 v0.3.12（按住说话），版本会变化，请查看仓库 Release。
   - AI Signal：github.com/qinxujunai/ai-signal。网站 qinxujunai.github.io/ai-signal/ 是产品主页，当天全文在 `latest/`，另有 RSS；v4.1.0（2026-10-23）。
   - 万象成文：github.com/qinxujunai/Audio2Text；2026-11-02 核对的最新正式版为 v2.3.2，历史三轮 141/180 为 2026-10-22 提取基准，非本次重测。
   - ai.vibecoding：github.com/qinxujunai/qinxujun-ai-vibecoding，这是他的方法论。
@@ -42,6 +42,8 @@
 **不是他的话**：2026-10-18 署名 Claude 的三次提交（461c9a0、b9416ed、3d7107f）把 ai.vibecoding 改写成了 11 章。这些内容不能当作他的原话引用。
 
 ## 决策记录
+
+- 2026-11-03 起、2026-11-07 上线（Claude）「VoiceFlow v0.3.12」：v0.3.12 发布了（按住 F2 或右 Ctrl 说话，松开结束，轻按仍可切换）。他说网站「不能还停留在过去」，VoiceFlow 的网站、README、本站和[已移除]都要按新版本更新，演示只留代码写的那一个，并同意了方案（「按方案做」）。VoiceFlow 那边（VoiceFlow 1458f4e）：官网首屏改为「按住说话，松开成文。」，删掉静态胶囊图，README 只留一个演示。本站改了这些字（他同意的范围，`copy.lock.json` 已更新）：首页 VoiceFlow 演示的提示「按住说话，松开就输入」；`line`「按住 F2 说话，字直接打在光标处」；作品页标题「按住说话，松开，文字就出现在光标处。」；结果条「926 项 · v0.3.12 自动化测试（2026-11-03）」；起因补一句「从 v0.3.12 起，按住 F2 或右 Ctrl 说话、松开结束，也保留轻按切换。」；验证「v0.3.12 于 2026 年 11 月 3 日通过 926 项自动化测试；v0.3.3 时是 396 项。」；历程加 v0.3.12 一行；图片说明跟着官网的新标题改；英文同步。「16 次 · 截至 2026-10-22 的正式发布」没改，要不要换成新数字等他定。作品页顶部的官网图按新首屏重截（`site-voiceflow*`）：这张图大部分是大字，原来的压缩质量 58 会让字边发虚，改成 80（`media.mjs` 的 `quality`，只对 VoiceFlow 这张图）。独立审查（11-03 那次被额度上限打断，11-07 重跑）另外提出，这几项已修：① 首页演示里 F2 键原来是「按一下开始、再按一下结束」的节奏（只在开头和结尾亮），和「按住说话」矛盾，`assets/site.js` 改成按下后一直亮到说完才松开（脚本不在文字锁里）；② `src/media.json` 里三张 VoiceFlow 图的路径是在 Windows 上生成的，带了反斜杠，已改回斜杠，`scripts/media.mjs` 同步改好，下次不会再出。两项没改，等他定：③ 历程那句「长句分段处不再多出句号」比 VoiceFlow 发布说明（「减少……标点仍可能出错」）说得满，保持他同意的原句没动，如要改成「少出多余的句号」（英文 fewer stray full stops），需要他点头再 `npm run lock`；④ 「16 次 · 截至 2026-10-22」的口径：现在 18 个版本标签、Release 页 17 条（含 2 个预览版，其中 15 个正式版），换成哪个数字等他定。验证：`npm run check` 通过；ship 的本地浏览器验收和播放器测试通过；本地中英、手机和电脑截图看过，0 报错、无横向溢出；首页演示每 50 毫秒取一次状态：F2 在说话期间一直亮，说完才松开，约 0.65 秒后字出现在光标处。
 
 - 2026-11-03（Claude）：他说 GitHub 上有些仓库没有价值，问哪些可以删，同意了我的建议，删掉 4 个：`rea`（别人项目的复刻）、`pet_care`（宠瑾安，10-22 已撤下）、`ask-data`（问数，10-23 已撤下）和本仓库清理前的私有存档 `qinxujunai.github.io-archive-20261102`。删前都在他电脑上做了完整备份，并和 GitHub 逐条核对一致；删后这 4 个都是 404，剩下 7 个仓库，星标不变，本站和各作品网站都是 200，`/ask-data/` 随仓库下线（本站不链接它）。本仓库只改了 AGENTS.md「历史与隐私」、问数那句和本文件「不放的东西」两条，页面不变。
 
